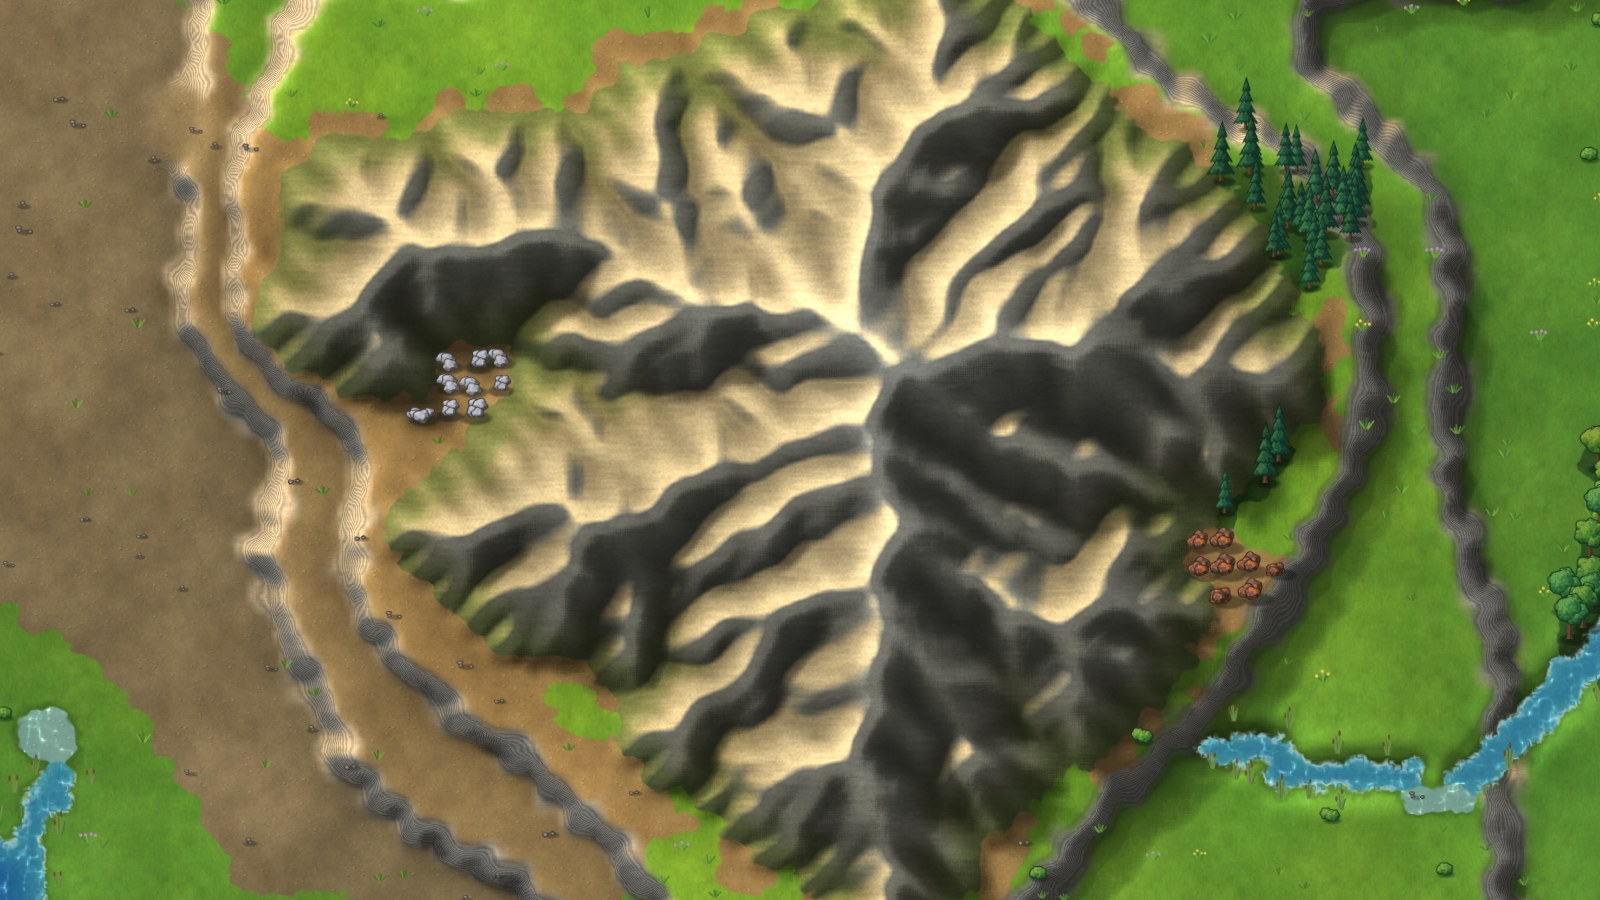
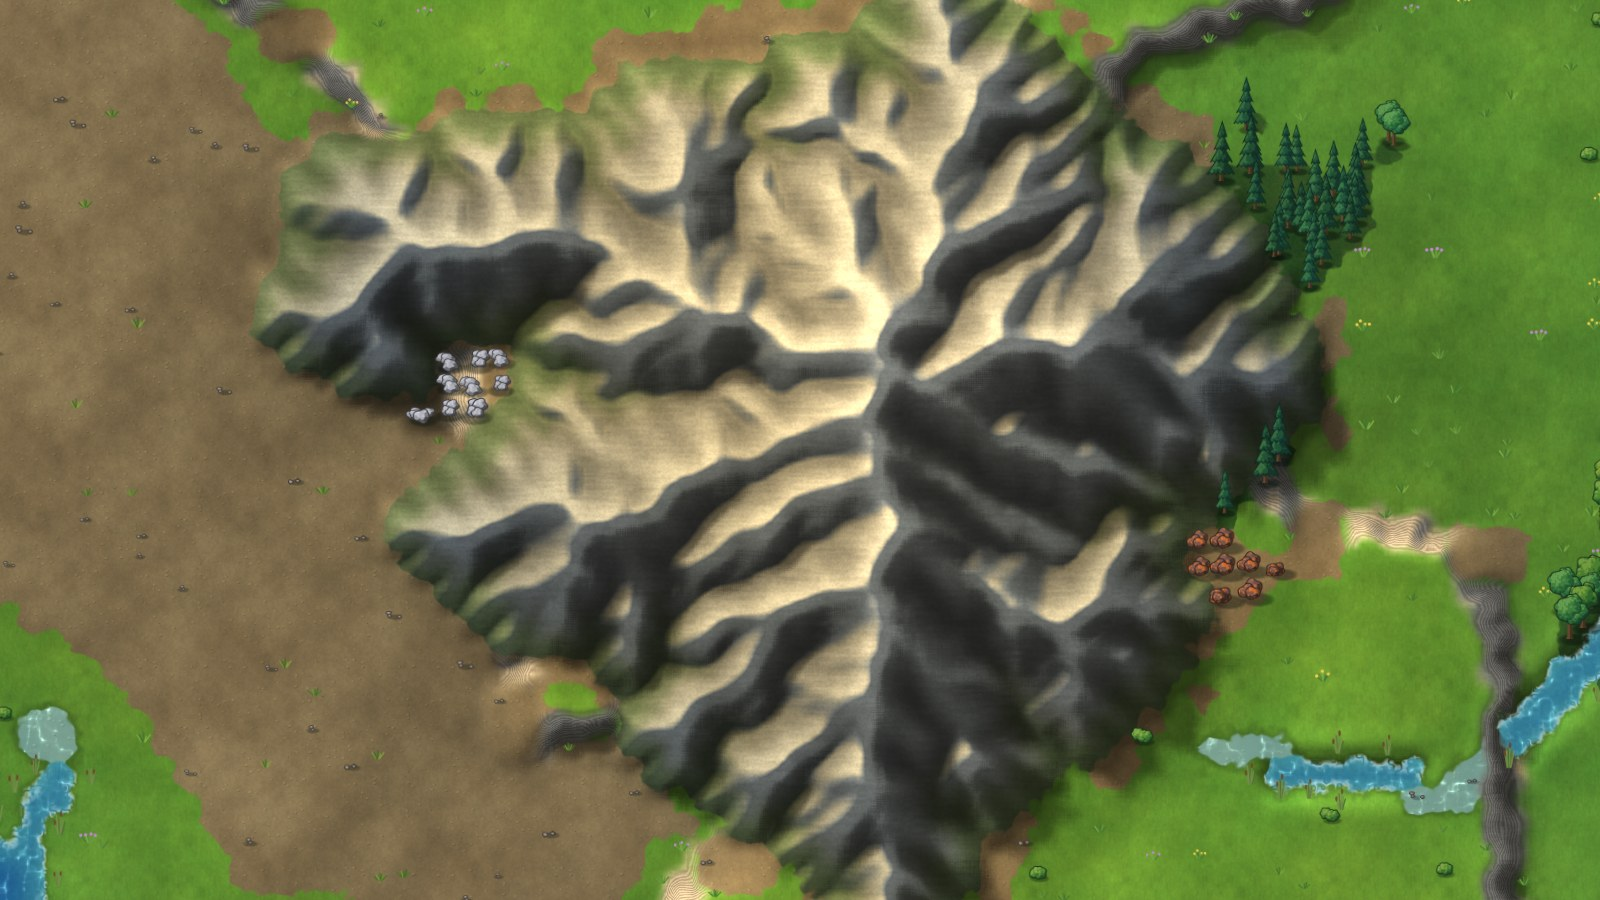
Trim mountain skirts, add debug overlays and a sprite stress test
Narrow ledges between a cliff and the foot of a mountain are lowered to
the level below, which roughly halves the cliff length on a map and
leaves plateaus as distinct regions.

The viewer gains per-tile overlays for height levels and passability
(V, or --overlay), drawn from the same flags and levels the simulation
uses. --bench now also drives the sprite batch with up to 250,000
sprites that move every frame, filled into GPU memory in parallel.

Claude-Session: https://claude.ai/code/session_01FJFosbXhhyT8ySPd1Cavo2

diff --git a/game/app/main.cpp b/game/app/main.cpp
@@ -1,5 +1,6 @@
 // Zillions: map viewer. For now the game is the engine plus the map generator;
 // this executable lets you fly over generated maps and capture screenshots.
+#include <cmath>
 #include <cstdio>
 #include <cstdlib>
 #include <cstring>
@@ -7,6 +8,7 @@
 
 #include "core/clock.h"
 #include "core/jobs.h"
+#include "core/rng.h"
 #include "gfx/gl.h"
 #include "gfx/render_target.h"
 #include "platform/window.h"
@@ -29,6 +31,8 @@ struct Options {
     bool have_center = false;
     Vec2 center{0, 0};
     f32 time = 0.0f;
+    MapOverlay overlay = MapOverlay::None;
+    bool grid = false;
 };
 
 void usage() {
@@ -43,7 +47,10 @@ void usage() {
         "  --whole-map          frame the entire map (default: the start area)\n"
         "  --center X Y         centre the view on a tile\n"
         "  --zoom PIXELS        pixels per tile\n"
+        "  --overlay MODE       debug view: height or pass\n"
+        "  --grid               draw tile borders\n"
         "controls: WASD/arrows or right-drag to pan, wheel to zoom, R new map,\n"
+        "          V cycle overlay (height, passability),\n"
         "          G grid, F whole map, H start area, F2 screenshot, Esc quit");
 }
 
@@ -61,6 +68,16 @@ bool parse(int argc, char** argv, Options& o) {
         else if (is("--whole-map")) o.whole_map = true;
         else if (is("--zoom")) o.zoom = static_cast<f32>(std::atof(next()));
         else if (is("--time")) o.time = static_cast<f32>(std::atof(next()));
+        else if (is("--grid")) o.grid = true;
+        else if (is("--overlay")) {
+            const char* mode = next();
+            if (!std::strcmp(mode, "height")) o.overlay = MapOverlay::Height;
+            else if (!std::strcmp(mode, "pass")) o.overlay = MapOverlay::Passability;
+            else {
+                usage();
+                return false;
+            }
+        }
         else if (is("--center")) {
             o.center.x = static_cast<f32>(std::atof(next()));
             o.center.y = static_cast<f32>(std::atof(next()));
@@ -128,6 +145,61 @@ void bench_view(const char* name, MapRenderer& renderer, const Camera2D& camera)
     std::printf("  %-10s %6u sprites   submit %7.3f ms   frame %7.3f ms\n", name, renderer.sprites_drawn(), submit_ms / kFrames, total.millis() / kFrames);
 }
 
+// Stress test for the unit path that does not exist yet: `count` sprites that
+// all move every frame, written straight into GPU memory by every core. "fill"
+// is the engine's own cost; "frame" adds the draw and waits for the GPU.
+void bench_horde(u32 count, const MapRenderer& renderer, const TileMap& map, JobSystem& jobs, SpriteBatch& batch, const Camera2D& camera) {
+    RenderTarget target;
+    target.create(static_cast<i32>(camera.viewport.x), static_cast<i32>(camera.viewport.y));
+    target.bind();
+    glClearColor(0.1f, 0.12f, 0.1f, 1.0f);
+
+    const SpriteSet& set = renderer.art().bush;
+    const SpriteDef* defs = renderer.art().defs.data() + set.first;
+    const f32 size = static_cast<f32>(map.width);
+    const auto fill = [&](SpriteInstance* out, f32 time, JobSystem& pool) {
+        pool.parallel_for(static_cast<i32>(count), 4096, [&](i32 begin, i32 end) {
+            for (i32 i = begin; i < end; ++i) {
+                // A stand-in for simulation output: every sprite drifts on its own heading.
+                const u32 h = hash32(static_cast<u32>(i) * 2654435761u + 1u);
+                const f32 x0 = hash_to_unit(h) * size, y0 = hash_to_unit(hash32(h + 1)) * size;
+                const f32 vx = hash_to_unit(hash32(h + 2)) - 0.5f, vy = hash_to_unit(hash32(h + 3)) - 0.5f;
+                f32 x = x0 + vx * time * 3.0f, y = y0 + vy * time * 3.0f;
+                x -= size * std::floor(x / size);
+                y -= size * std::floor(y / size);
+                const SpriteDef& d = defs[h % static_cast<u32>(set.count)];
+                out[i] = {x - d.anchor_x * 0.6f, y - d.anchor_y * 0.6f, d.width * 0.6f, d.height * 0.6f, d.u0, d.v0, d.u1, d.v1, 0xFFFFFFFFu};
+            }
+        });
+    };
+
+    JobSystem single(1);
+    constexpr int kFrames = 40;
+    f64 fill_ms = 0.0, fill_single_ms = 0.0;
+    glFinish();
+    const Stopwatch total;
+    for (int frame = 0; frame < kFrames; ++frame) {
+        glClear(GL_COLOR_BUFFER_BIT);
+        SpriteInstance* out = batch.begin(count);
+        const Stopwatch timer;
+        fill(out, static_cast<f32>(frame) / 60.0f, jobs);
+        fill_ms += timer.millis();
+        batch.draw(count, camera, renderer.sprite_atlas());
+        glFinish();
+    }
+    const f64 frame_ms = total.millis() / kFrames;
+    // The same fill on one thread, for the scaling figure.
+    for (int frame = 0; frame < 8; ++frame) {
+        SpriteInstance* out = batch.begin(count);
+        const Stopwatch timer;
+        fill(out, static_cast<f32>(frame) / 60.0f, single);
+        fill_single_ms += timer.millis();
+        batch.draw(0, camera, renderer.sprite_atlas());
+    }
+    std::printf("  %7u moving sprites   fill %6.3f ms on %d threads (%6.3f ms on 1)   frame %8.3f ms\n", count, fill_ms / kFrames,
+                jobs.thread_count(), fill_single_ms / 8, frame_ms);
+}
+
 }  // namespace
 
 int main(int argc, char** argv) {
@@ -166,6 +238,8 @@ int main(int argc, char** argv) {
 
     MapDrawOptions draw;
     draw.time = options.time;
+    draw.overlay = options.overlay;
+    draw.grid = options.grid;
 
     if (options.bench) {
         std::printf("renderer, %dx%d, 2 draw calls per frame\n", options.width, options.height);
@@ -176,6 +250,11 @@ int main(int argc, char** argv) {
         bench_view("zoomed out", renderer, view);
         frame_whole_map(view, map);
         bench_view("whole map", renderer, view);
+
+        std::printf("sprite batch, 1 draw call per frame\n");
+        SpriteBatch horde;
+        horde.init();
+        for (const u32 count : {10000u, 100000u, 250000u}) bench_horde(count, renderer, map, jobs, horde, view);
         return 0;
     }
 
@@ -205,6 +284,7 @@ int main(int argc, char** argv) {
             log_map(map);
         }
         if (in.pressed(Key::G)) draw.grid = !draw.grid;
+        if (in.pressed(Key::V)) draw.overlay = static_cast<MapOverlay>((static_cast<int>(draw.overlay) + 1) % static_cast<int>(MapOverlay::Count));
         if (in.pressed(Key::F)) frame_whole_map(camera, map);
         if (in.pressed(Key::H)) frame_start(camera, map);
 

diff --git a/game/render/map_renderer.cpp b/game/render/map_renderer.cpp
@@ -27,7 +27,7 @@ void main() {
 // pixel finds its four nearest tiles in a data texture and blends their
 // materials, so cost depends only on screen resolution.
 const char* kTerrainFragment = R"(#version 330 core
-uniform sampler2D uTiles;         // r: terrain id, g: resource id (point sampled)
+uniform sampler2D uTiles;         // r: terrain id, g: resource id, b: tile flags, a: height level (point sampled)
 uniform sampler2D uRelief;        // rg: surface normal, b: height, a: cavity (ridge > 0.5 > valley)
 uniform sampler2D uSurface;       // r: mountain altitude, g: cliff face, b: height level
 uniform sampler2D uDepth;         // r: distance from water to shore, g: moisture
@@ -36,6 +36,7 @@ uniform vec2 uMapSize;
 uniform vec4 uWorld;              // world = gl_FragCoord.xy * xy + zw
 uniform float uTime;
 uniform float uGrid;
+uniform int uOverlay;             // 0: none, 1: height levels, 2: passability
 uniform float uPixel;             // world units per screen pixel
 uniform float uHeightRange;       // tiles of height that relief.b == 1 stands for
 out vec4 oColor;
@@ -163,6 +164,38 @@ void main() {
     float line = smoothstep(0.5 - 1.5 * uPixel, 0.5, max(fromEdge.x, fromEdge.y));
     color *= 1.0 - 0.22 * line * uGrid;
 
+    // Debug overlays show the gameplay data exactly as the simulation sees it:
+    // per tile, with no blending.
+    if (uOverlay > 0) {
+        ivec2 tc = clamp(ivec2(floor(p)), ivec2(0), last);
+        vec4 tile = texelFetch(uTiles, tc, 0);
+        int kind = int(tile.r * 255.0 + 0.5), flags = int(tile.b * 255.0 + 0.5), level = int(tile.a * 255.0 + 0.5);
+        bool walkable = (flags & 1) != 0, buildable = (flags & 2) != 0, ramp = (flags & 8) != 0;
+        vec3 tint;
+        float strength;
+        if (uOverlay == 1) {
+            tint = ramp ? vec3(1.0) : (level == 0 ? vec3(0.20, 0.45, 0.92) : (level == 1 ? vec3(0.98, 0.80, 0.20) : vec3(0.92, 0.30, 0.22)));
+            strength = kind == 0 || kind == 6 ? 0.0 : (walkable ? 0.50 : 0.22);
+        } else {
+            tint = ramp ? vec3(0.20, 0.90, 0.95) : (buildable ? vec3(0.25, 0.85, 0.30) : (walkable ? vec3(0.95, 0.85, 0.25) : vec3(0.90, 0.20, 0.20)));
+            strength = 0.42;
+        }
+        color = mix(color, tint, strength);
+
+        // A dark line on every tile border a unit cannot cross because of a cliff.
+        if (walkable && !ramp) {
+            vec2 f = fract(p);
+            float width = max(0.07, 1.5 * uPixel);
+            ivec2 side = clamp(tc + ivec2(f.x < 0.5 ? -1 : 1, 0), ivec2(0), last);
+            ivec2 above = clamp(tc + ivec2(0, f.y < 0.5 ? -1 : 1), ivec2(0), last);
+            vec4 a = texelFetch(uTiles, side, 0), b = texelFetch(uTiles, above, 0);
+            int fa = int(a.b * 255.0 + 0.5), fb = int(b.b * 255.0 + 0.5);
+            bool cliffA = (fa & 1) != 0 && (fa & 8) == 0 && int(a.a * 255.0 + 0.5) != level && min(f.x, 1.0 - f.x) < width;
+            bool cliffB = (fb & 1) != 0 && (fb & 8) == 0 && int(b.a * 255.0 + 0.5) != level && min(f.y, 1.0 - f.y) < width;
+            if (cliffA || cliffB) color = vec3(0.10, 0.02, 0.02);
+        }
+    }
+
     // Fade to the backdrop just outside the map.
     vec2 outside = max(-p, p - uMapSize);
     float inside = 1.0 - smoothstep(0.0, 2.0 * uPixel, max(outside.x, outside.y));
@@ -200,6 +233,7 @@ void MapRenderer::init(JobSystem& jobs) {
     u_map_size_ = terrain_.uniform("uMapSize");
     u_time_ = terrain_.uniform("uTime");
     u_grid_ = terrain_.uniform("uGrid");
+    u_overlay_ = terrain_.uniform("uOverlay");
     u_pixel_ = terrain_.uniform("uPixel");
     u_height_range_ = terrain_.uniform("uHeightRange");
 
@@ -215,7 +249,7 @@ void MapRenderer::set_map(const TileMap& map, JobSystem& jobs) {
     Image tiles(w, h), hydro(w, h);
     for (i32 i = 0; i < w * h; ++i) {
         const size_t k = static_cast<size_t>(i);
-        tiles.pixels[k] = {static_cast<u8>(map.terrain[k]), static_cast<u8>(map.resource[k]), 0, 255};
+        tiles.pixels[k] = {static_cast<u8>(map.terrain[k]), static_cast<u8>(map.resource[k]), map.flags[k], map.level[k]};
         hydro.pixels[k] = {map.shore_dist[k], static_cast<u8>(saturate(map.moisture[k]) * 255.0f + 0.5f), 0, 255};
     }
     tiles_.create(tiles, TextureFilter::Nearest, TextureWrap::Clamp);
@@ -336,6 +370,7 @@ void MapRenderer::draw(const Camera2D& camera, const MapDrawOptions& options) {
     glUniform2f(u_map_size_, static_cast<f32>(map_width_), static_cast<f32>(map_height_));
     glUniform1f(u_time_, options.time);
     glUniform1f(u_grid_, options.grid ? 1.0f : 0.0f);
+    glUniform1i(u_overlay_, static_cast<int>(options.overlay));
     glUniform1f(u_pixel_, inv_zoom);
     glUniform1f(u_height_range_, height_range_);
     tiles_.bind(0);

diff --git a/game/render/map_renderer.h b/game/render/map_renderer.h
@@ -16,9 +16,18 @@ namespace zl {
 
 class JobSystem;
 
+// Debug views of the gameplay data, drawn per tile over the terrain.
+enum class MapOverlay : u8 {
+    None,
+    Height,       // height level of each tile, ramps and cliff edges
+    Passability,  // buildable, walkable only, ramp or blocked
+    Count
+};
+
 struct MapDrawOptions {
     f32 time = 0.0f;      // seconds; animates water
     bool grid = false;    // overlay tile boundaries
+    MapOverlay overlay = MapOverlay::None;
 };
 
 class MapRenderer {
@@ -32,6 +41,10 @@ public:
     void set_map(const TileMap& map, JobSystem& jobs);
     void draw(const Camera2D& camera, const MapDrawOptions& options);
 
+    // The sprite atlas and its catalogue, for anything else that draws sprites.
+    const Texture& sprite_atlas() const { return sprites_; }
+    const TerrainArt& art() const { return art_; }
+
     u32 decor_count() const { return static_cast<u32>(decor_.size()); }
     u32 sprites_drawn() const { return sprites_drawn_; }
 
@@ -40,7 +53,7 @@ private:
 
     TerrainArt art_;
     Shader terrain_;
-    i32 u_world_ = -1, u_map_size_ = -1, u_time_ = -1, u_grid_ = -1, u_pixel_ = -1, u_height_range_ = -1;
+    i32 u_world_ = -1, u_map_size_ = -1, u_time_ = -1, u_grid_ = -1, u_overlay_ = -1, u_pixel_ = -1, u_height_range_ = -1;
     f32 height_range_ = 1.0f;
     u32 vao_ = 0;
 

diff --git a/game/world/mapgen.cpp b/game/world/mapgen.cpp
@@ -495,6 +495,23 @@ private:
         }
         m_.level.swap(filtered);
 
+        // High ground crowds around mountains, so each range tends to collect a
+        // thin skirt of ledge between its foot and the nearest cliff: a ring of
+        // cliff that encloses almost nothing. Where that strip is narrow it is
+        // lowered to the level below, working from the top level down.
+        constexpr f32 kMinLedge = 9.0f;
+        std::vector<f32> to_lower(static_cast<size_t>(n_)), to_rock(static_cast<size_t>(n_));
+        for (i32 i = 0; i < n_; ++i) to_rock[static_cast<size_t>(i)] = rock_[static_cast<size_t>(i)] ? 0.0f : kInf;
+        chamfer_distance(to_rock, w_, h_);
+        for (int l = kHeightLevels - 1; l >= 1; --l) {
+            for (i32 i = 0; i < n_; ++i) to_lower[static_cast<size_t>(i)] = level(i) < l ? 0.0f : kInf;
+            chamfer_distance(to_lower, w_, h_);
+            for (i32 i = 0; i < n_; ++i) {
+                const size_t k = static_cast<size_t>(i);
+                if (level(i) == l && to_lower[k] + to_rock[k] < kMinLedge) m_.level[k] = static_cast<u8>(l - 1);
+            }
+        }
+
         // Terraces too small to build on or defend are absorbed by their surroundings.
         const i32 min_size = std::max(60, n_ / 900);
         for (int pass = 0; pass < 2; ++pass) {

diff --git a/README.md b/README.md
@@ -34,7 +34,7 @@ which need no windowing system or GPU.
 ```
 zillions [--seed N] [--size N] [--width W --height H] [--no-vsync]
          [--screenshot FILE [--whole-map | --center X Y] [--zoom PIXELS]]
-         [--bench]
+         [--overlay height|pass] [--grid] [--bench]
 ```
 
 | Input | Action |
@@ -44,10 +44,20 @@ zillions [--seed N] [--size N] [--width W --height H] [--no-vsync]
 | R or Space | generate the next seed |
 | F / H | frame the whole map / the start area |
 | G | tile grid |
+| V | cycle debug overlay: height levels, passability |
 | F2 | save a screenshot |
 
 `zl_mapgen` is the headless generator: `--out preview.png` writes a flat-colour
 preview, `--bench` times generation.
+
+`zillions --bench` times the renderer off-screen, then stress-tests the sprite
+batch with 10,000 to 250,000 sprites that all move every frame.
+
+The overlays draw gameplay data per tile, exactly as the simulation sees it.
+Height shows level 0 in blue, 1 in yellow, 2 in red, ramps in white and a black
+line on every border a cliff blocks:
+
+![Height overlay](docs/screenshots/overlay-height.jpg)
 
 ## Layout
 
@@ -97,8 +107,9 @@ simulation can run in tests, tools and (later) a server.
    and end in a lake or leave the map.
 5. **Mountains**: consolidated with a majority filter; specks are dropped.
 6. **Height levels**: smoothed elevation is cut into three flat levels at
-   percentiles, ledges too narrow to use are filtered out, and the start area
-   is kept on a single level.
+   percentiles. Ledges too narrow to use, including the thin skirts that
+   would otherwise ring every mountain, are lowered, and the start area is
+   kept on a single level.
 7. **Terrain**: beaches along lakes, forest in groves biased to wet ground,
    dry patches, scree at the foot of mountains.
 8. **Fords**: shallow crossings on narrow river reaches.
